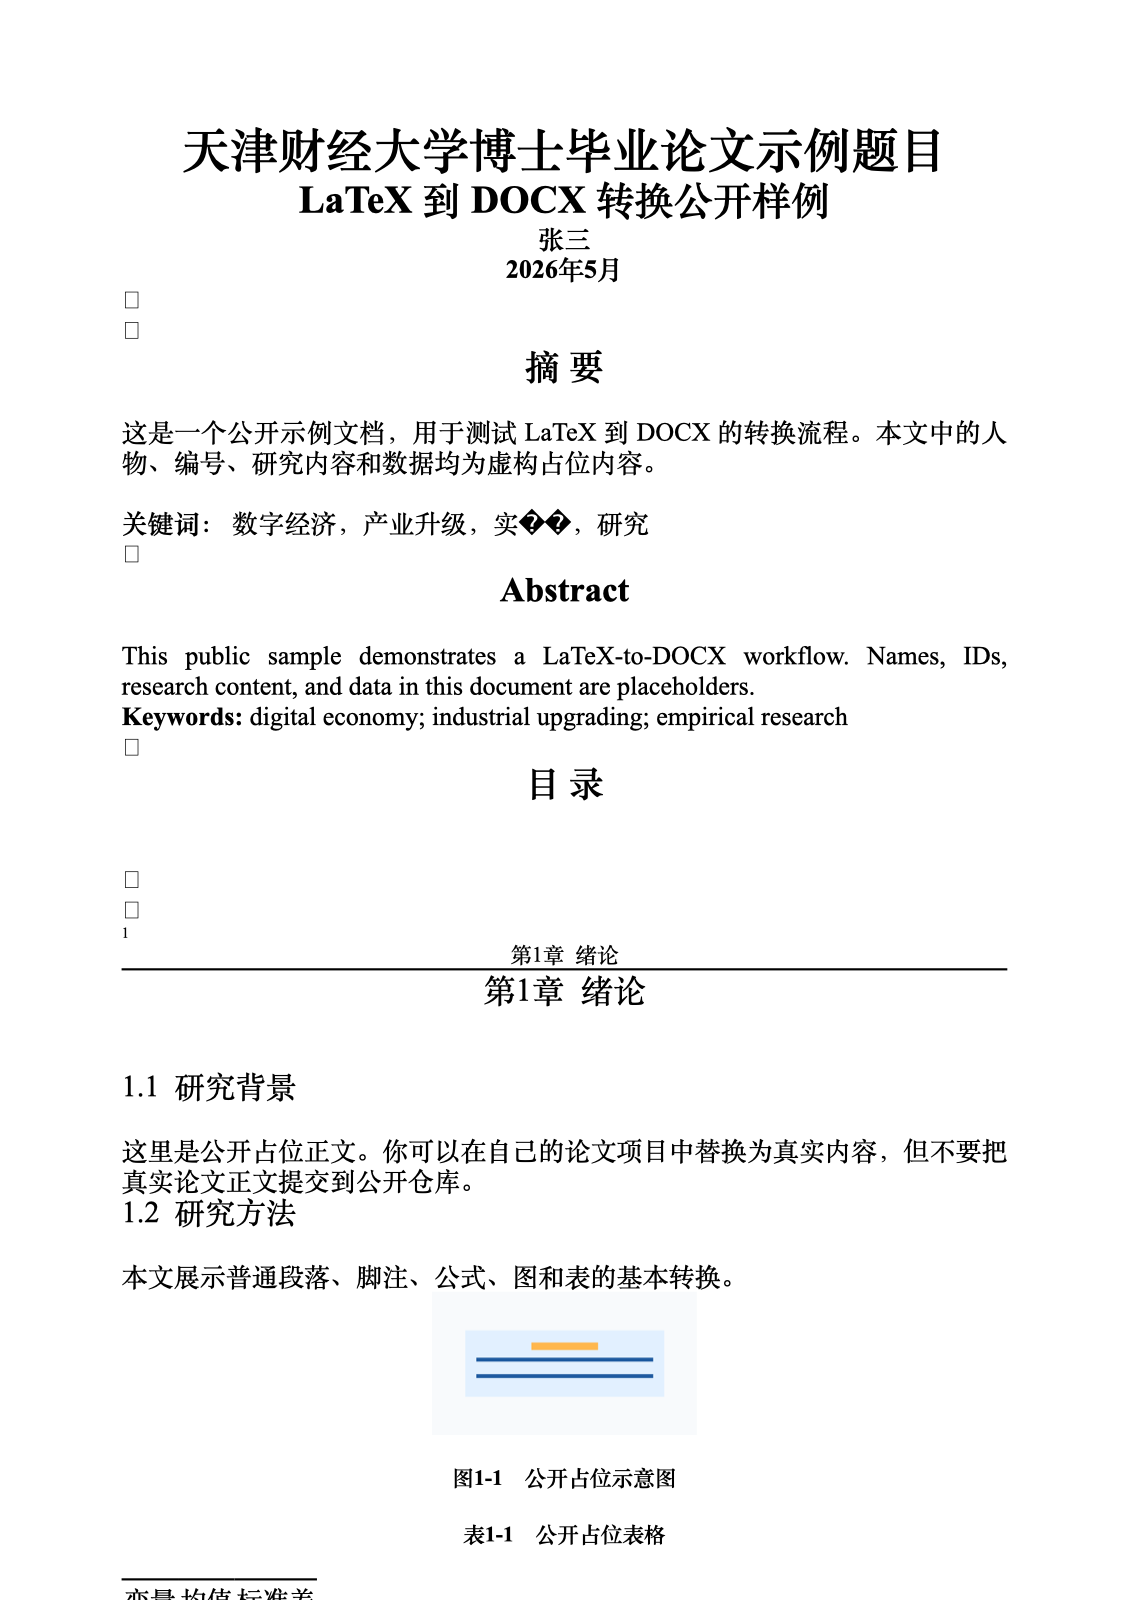
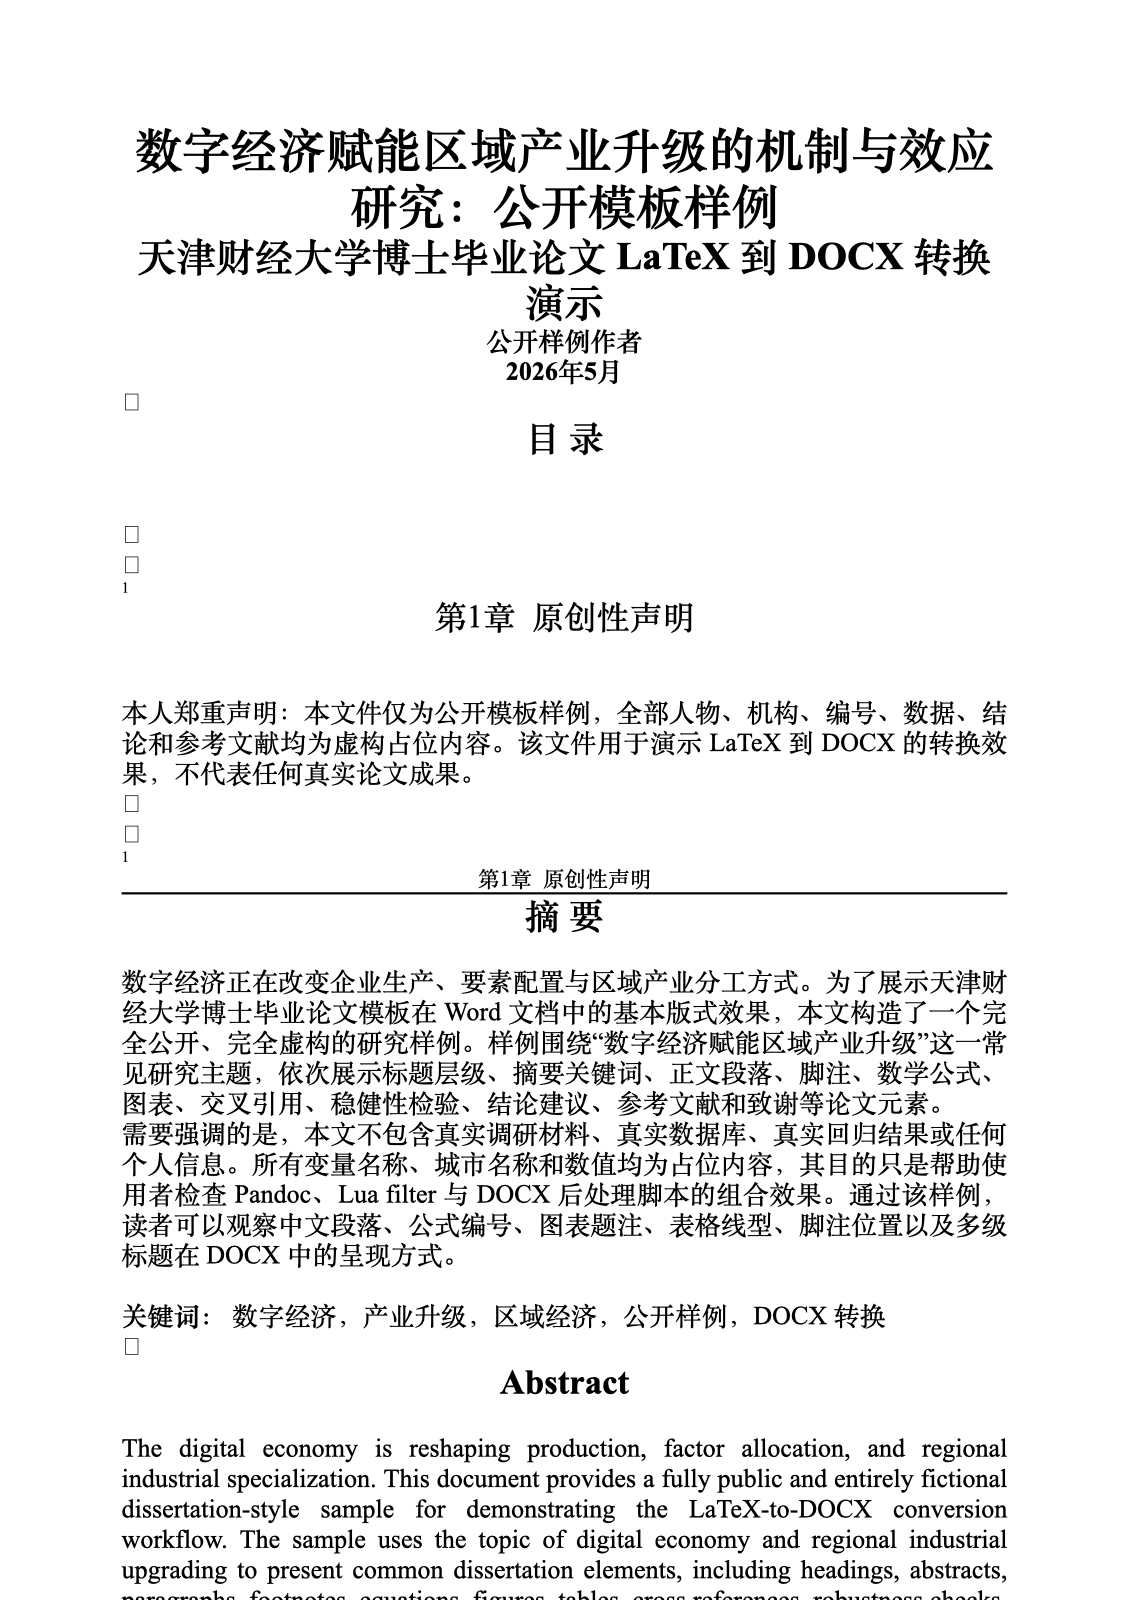
Expand public thesis sample and fix UTF-8 keyword handling

diff --git a/samples/sample-thesis.tex b/samples/sample-thesis.tex
@@ -3,73 +3,188 @@
 \usepackage{amsmath,amssymb}
 \usepackage{graphicx}
 \usepackage{booktabs}
+\usepackage{longtable}
+\usepackage{threeparttable}
 \usepackage{hyperref}
 \usepackage{geometry}
 \geometry{a4paper,margin=2.5cm}
 
-\title{天津财经大学博士毕业论文示例题目}
-\author{张三}
+\title{数字经济赋能区域产业升级的机制与效应研究：公开模板样例}
+\author{公开样例作者}
 \date{2026年5月}
 
 \begin{document}
 \maketitle
 
 \frontmatter
-\chapter*{摘要}
-这是一个公开示例文档，用于测试 LaTeX 到 DOCX 的转换流程。本文中的人物、编号、研究内容和数据均为虚构占位内容。
+\chapter*{原创性声明}
+本人郑重声明：本文件仅为公开模板样例，全部人物、机构、编号、数据、结论和参考文献均为虚构占位内容。该文件用于演示 LaTeX 到 DOCX 的转换效果，不代表任何真实论文成果。
 
-\textbf{关键词：} 数字经济；产业升级；实证研究
+\chapter*{摘要}
+数字经济正在改变企业生产、要素配置与区域产业分工方式。为了展示天津财经大学博士毕业论文模板在 Word 文档中的基本版式效果，本文构造了一个完全公开、完全虚构的研究样例。样例围绕“数字经济赋能区域产业升级”这一常见研究主题，依次展示标题层级、摘要关键词、正文段落、脚注、数学公式、图表、交叉引用、稳健性检验、结论建议、参考文献和致谢等论文元素。
+
+需要强调的是，本文不包含真实调研材料、真实数据库、真实回归结果或任何个人信息。所有变量名称、城市名称和数值均为占位内容，其目的只是帮助使用者检查 Pandoc、Lua filter 与 DOCX 后处理脚本的组合效果。通过该样例，读者可以观察中文段落、公式编号、图表题注、表格线型、脚注位置以及多级标题在 DOCX 中的呈现方式。
+
+\textbf{关键词：} 数字经济，产业升级，区域经济，公开样例，DOCX 转换
 
 \chapter*{Abstract}
-This public sample demonstrates a LaTeX-to-DOCX workflow. Names, IDs, research content, and data in this document are placeholders.
+The digital economy is reshaping production, factor allocation, and regional industrial specialization. This document provides a fully public and entirely fictional dissertation-style sample for demonstrating the LaTeX-to-DOCX conversion workflow. The sample uses the topic of digital economy and regional industrial upgrading to present common dissertation elements, including headings, abstracts, paragraphs, footnotes, equations, figures, tables, cross references, robustness checks, conclusions, references, and acknowledgements.
 
-\textbf{Keywords:} digital economy; industrial upgrading; empirical research
+This sample does not contain real survey materials, real databases, real empirical results, or personal information. All names, regions, variables, and numerical values are placeholders. The purpose is to help users inspect how Pandoc, the Lua filter, and the DOCX post-processing scripts work together when producing a Word document.
+
+\textbf{Keywords:} digital economy; industrial upgrading; regional economy; public sample; DOCX conversion
 
 \tableofcontents
 
 \mainmatter
 \chapter{绪论}
-\section{研究背景}
-这里是公开占位正文。你可以在自己的论文项目中替换为真实内容，但不要把真实论文正文提交到公开仓库。
+\section{研究背景与问题提出}
+近年来，数字基础设施、平台经济和数据要素市场建设持续推进，数字经济已经成为推动产业结构优化的重要力量。对于区域经济而言，数字技术不仅改变企业内部生产流程，也会通过信息扩散、交易成本下降和创新网络重组影响产业升级路径。本文以一个虚构场景为例，展示博士论文中常见的研究叙述方式。
 
-\section{研究方法}
-本文展示普通段落、脚注\footnote{这是公开示例脚注。}、公式、图和表的基本转换。
+在现实写作中，绪论通常需要说明研究背景、理论意义、现实意义、研究问题、研究方法和可能贡献。本公开样例只保留这些结构的形式，不提供任何真实判断。使用者可以将本文件复制到自己的私有项目中，再替换为真实论文内容。
 
-\begin{equation}
-Y_{it}=\alpha+\beta X_{it}+\gamma Z_{it}+\mu_i+\lambda_t+\varepsilon_{it}
-\end{equation}
+\section{研究意义}
+从理论层面看，数字经济可能通过技术进步、组织变革和市场连接影响产业升级。从实践层面看，地方政府需要理解数字基础设施建设与产业政策之间的关系。本文样例以规范化语言展示段落排版效果，并通过脚注演示注释功能\footnote{这是一个公开样例脚注，用于检查脚注在 DOCX 中的位置与字号。}。
+
+\section{研究思路与技术路线}
+本文样例遵循“理论分析—模型设定—结果展示—结论建议”的基本结构。图~\ref{fig:framework} 展示了一个虚构的研究框架。图中所有节点均为占位表达，不对应真实研究结论。
 
 \begin{figure}[htbp]
   \centering
-  \includegraphics[width=0.6\textwidth]{figures/example.png}
-  \caption{公开占位示意图}
-  \label{fig:example}
+  \includegraphics[width=0.78\textwidth]{figures/example.png}
+  \caption{数字经济影响产业升级的公开占位研究框架}
+  \label{fig:framework}
 \end{figure}
+
+\chapter{理论基础与研究假说}
+\section{数字经济与产业升级}
+数字经济可以被理解为以数据资源为关键要素、以现代信息网络为重要载体、以数字技术应用为主要特征的一系列经济活动。在产业升级研究中，常见关注点包括产业结构高级化、产业结构合理化、全要素生产率提升以及创新能力改善。
+
+\section{作用机制分析}
+为了演示公式环境，设区域 $i$ 在时期 $t$ 的产业升级水平为 $Upgrade_{it}$，数字经济发展水平为 $Digital_{it}$。一个简化的线性关系可以写为：
+
+\begin{equation}
+Upgrade_{it}=\alpha+\beta Digital_{it}+\gamma Controls_{it}+\mu_i+\lambda_t+\varepsilon_{it}.
+\label{eq:baseline}
+\end{equation}
+
+式~\ref{eq:baseline} 中，$Controls_{it}$ 表示控制变量，$\mu_i$ 表示地区固定效应，$\lambda_t$ 表示时间固定效应。该公式只用于版式展示，不能被解释为真实估计模型。
+
+\section{研究假说}
+基于上述公开占位讨论，本文样例提出如下假说：
+
+\textbf{假说 1：} 在其他条件不变的情况下，数字经济发展水平越高，区域产业升级水平越高。
+
+\textbf{假说 2：} 数字经济可能通过促进创新投入和提高资源配置效率影响产业升级。
+
+\chapter{研究设计}
+\section{样本说明与变量构造}
+本章展示表格、变量说明和模型设定的写法。样例数据为虚构面板数据，假设包含 30 个公开占位地区和 10 个公开占位年份。所有变量的含义见表~\ref{tab:variables}。
 
 \begin{table}[htbp]
 \centering
-\caption{公开占位表格}
-\label{tab:example}
-\begin{tabular}{lcc}
+\caption{主要变量说明}
+\label{tab:variables}
+\begin{tabular}{lll}
 \toprule
-变量 & 均值 & 标准差 \\
+变量类型 & 变量符号 & 变量含义 \\
 \midrule
-$x$ & 1.23 & 0.45 \\
-$y$ & 2.34 & 0.67 \\
+被解释变量 & $Upgrade$ & 产业升级指数，占位指标 \\
+核心解释变量 & $Digital$ & 数字经济发展指数，占位指标 \\
+机制变量 & $Innovation$ & 创新投入强度，占位指标 \\
+控制变量 & $Finance$ & 金融发展水平，占位指标 \\
+控制变量 & $Human$ & 人力资本水平，占位指标 \\
 \bottomrule
 \end{tabular}
 \end{table}
 
-如图~\ref{fig:example} 和表~\ref{tab:example} 所示，这些内容只用于模板测试。
+\section{描述性统计}
+表~\ref{tab:summary} 给出了虚构变量的描述性统计。数值只用于检查小数、表格线和对齐效果。
 
-\chapter{文献综述}
-这里放置公开占位文献综述内容。引用示例可以在后续接入 BibTeX 或 CSL 工作流。
+\begin{table}[htbp]
+\centering
+\caption{描述性统计：公开虚构数据}
+\label{tab:summary}
+\begin{tabular}{lrrrr}
+\toprule
+变量 & 均值 & 标准差 & 最小值 & 最大值 \\
+\midrule
+$Upgrade$ & 0.512 & 0.143 & 0.201 & 0.863 \\
+$Digital$ & 0.476 & 0.158 & 0.118 & 0.902 \\
+$Innovation$ & 0.338 & 0.121 & 0.075 & 0.721 \\
+$Finance$ & 0.624 & 0.176 & 0.203 & 0.941 \\
+$Human$ & 0.587 & 0.132 & 0.260 & 0.884 \\
+\bottomrule
+\end{tabular}
+\end{table}
 
-\chapter{结论}
-本样例说明了如何组织一个最小可运行的 LaTeX 论文输入，并通过 Pandoc 及后处理脚本转换为 DOCX。
+\section{基准模型}
+在正式研究中，模型设定需要根据理论基础、数据结构和识别策略确定。本公开样例只展示常见表达方式。若考虑中介机制，可以写为：
+
+\begin{align}
+Innovation_{it} &= a_0+a_1 Digital_{it}+a_2 Controls_{it}+\mu_i+\lambda_t+u_{it}, \\
+Upgrade_{it} &= b_0+b_1 Digital_{it}+b_2 Innovation_{it}+b_3 Controls_{it}+\mu_i+\lambda_t+v_{it}.
+\end{align}
+
+\chapter{实证结果与分析}
+\section{基准回归结果}
+表~\ref{tab:regression} 展示虚构回归结果。表中星号、括号和列标题用于检查 Word 表格在论文场景下的展示效果。
+
+\begin{table}[htbp]
+\centering
+\caption{基准回归结果：公开虚构数据}
+\label{tab:regression}
+\begin{tabular}{lccc}
+\toprule
+ & (1) & (2) & (3) \\
+变量 & $Upgrade$ & $Upgrade$ & $Upgrade$ \\
+\midrule
+$Digital$ & 0.215*** & 0.188*** & 0.164** \\
+ & (0.052) & (0.049) & (0.061) \\
+$Finance$ &  & 0.093** & 0.081* \\
+ &  & (0.037) & (0.044) \\
+$Human$ &  &  & 0.126** \\
+ &  &  & (0.055) \\
+地区固定效应 & 是 & 是 & 是 \\
+年份固定效应 & 是 & 是 & 是 \\
+观测值 & 300 & 300 & 300 \\
+$R^2$ & 0.421 & 0.456 & 0.478 \\
+\bottomrule
+\end{tabular}
+\end{table}
+
+从表~\ref{tab:regression} 可以看到，核心解释变量在三个虚构模型中均为正。需要再次说明，这些数值是手工构造的公开占位结果，只用于检查排版，不构成任何经验事实。
+
+\section{机制检验}
+为了演示多级标题和机制分析段落，本节讨论数字经济通过创新投入影响产业升级的可能渠道。实际论文中应当报告变量定义、识别假设、估计方法和稳健性检验。本文样例仅保留规范化表达形式。
+
+\section{稳健性检验}
+常见稳健性检验包括替换变量、调整样本区间、改变估计方法和加入额外控制变量。公开样例可以用简短段落展示这些内容，也可以扩展为附录表格。
+
+\chapter{进一步讨论}
+\section{异质性分析}
+区域产业基础、数字基础设施和人力资本水平不同，数字经济的作用效果可能存在差异。为了展示小节结构，本文样例将地区划分为“高基础组”和“低基础组”。该划分完全虚构。
+
+\section{政策含义}
+如果把本文作为正式论文，需要谨慎区分研究发现、政策建议和适用边界。公开样例中的政策含义只用于展示写作形式。例如，可以建议完善数字基础设施、促进数据要素流通、鼓励中小企业数字化转型，并强化人才培养。
+
+\chapter{结论与展望}
+\section{主要结论}
+本文构造了一个较完整的博士论文公开样例，用于展示 LaTeX 到 DOCX 的转换流程。样例覆盖了摘要、目录、章节、脚注、公式、图表、交叉引用、回归表、机制分析、异质性分析、政策含义和致谢等内容。
+
+\section{研究不足与未来展望}
+本样例不是一篇真实论文，因此不存在真实数据、真实识别策略或真实学术贡献。未来使用者可以在私有项目中扩展真实内容，但不应将未公开论文正文、个人信息或敏感材料提交到公开仓库。
 
 \backmatter
+\begin{thebibliography}{9}
+\bibitem{placeholder2026} 公开样例研究组. 数字经济与产业升级：模板占位文献[J]. 公开模板学报, 2026, 1(1): 1--10.
+\bibitem{demo2026} Demo Author. A Public Sample for LaTeX to DOCX Conversion[J]. Journal of Template Demonstration, 2026, 2(1): 11--20.
+\end{thebibliography}
+
 \chapter*{致谢}
-感谢开源工具社区。本致谢为公开占位文本。
+感谢开源工具社区、Pandoc 项目以及所有关注论文写作自动化流程的使用者。本致谢为公开占位文本，不对应任何真实个人或机构。
+
+\chapter*{附录 A：变量构造示例}
+附录可以放置变量构造、额外图表或补充说明。本公开样例仅展示附录标题和普通段落在 DOCX 中的转换效果。
 
 \end{document}
